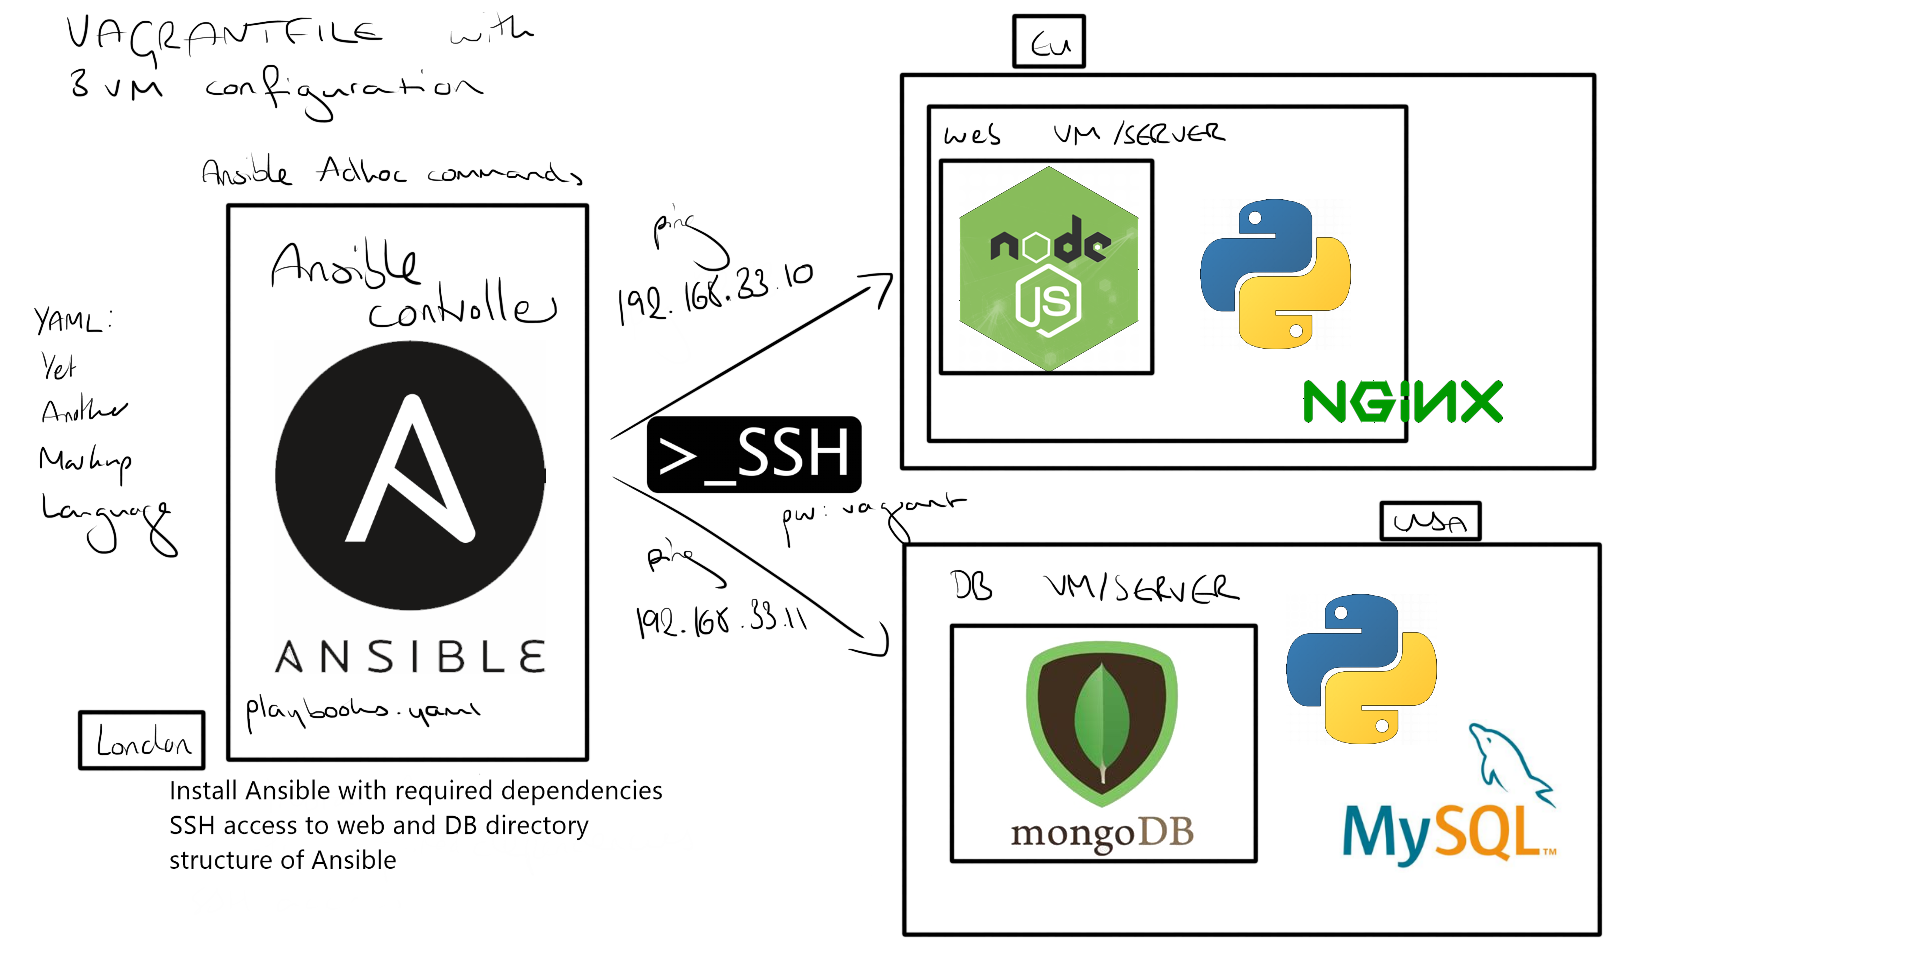
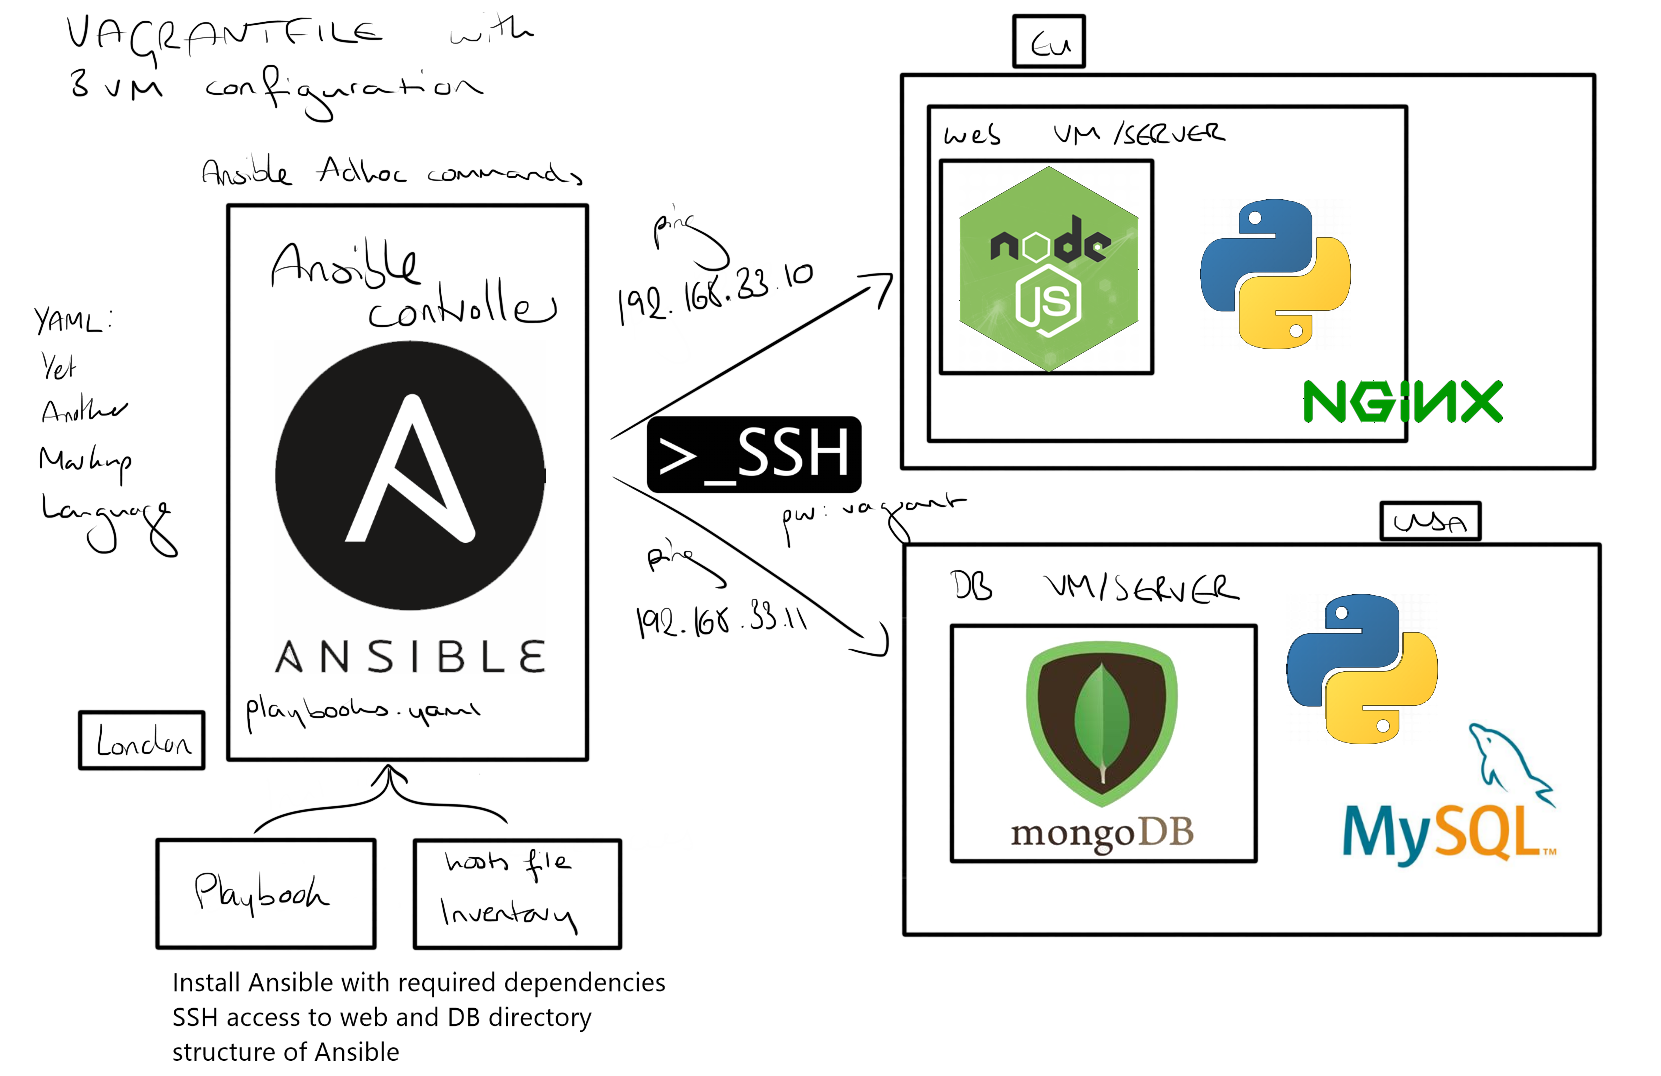
playbooks

diff --git a/README.md b/README.md
@@ -56,3 +56,10 @@ ip ansible_connection=ssh ansible_ssh_user=vagrant ansible_ssh_pass=vagrant
 - `ansible db -m shell -a "uptime"` to find uptime of the db server
 - `ansible all -a "sudo apt-get update"` to update all packages
 - `ansible all -a "sudo apt-get upgrade"` to upgrade
+
+## Playbooks
+- written in YAML with .yml/.yaml extension with set of instructions/tasks to do the configuration management on the hosts/agent nodes
+- YAML files need to start with three dashes `---`
+- indentation should be done with spaces, not tabs
+
+## Setting up Ansible Vault
